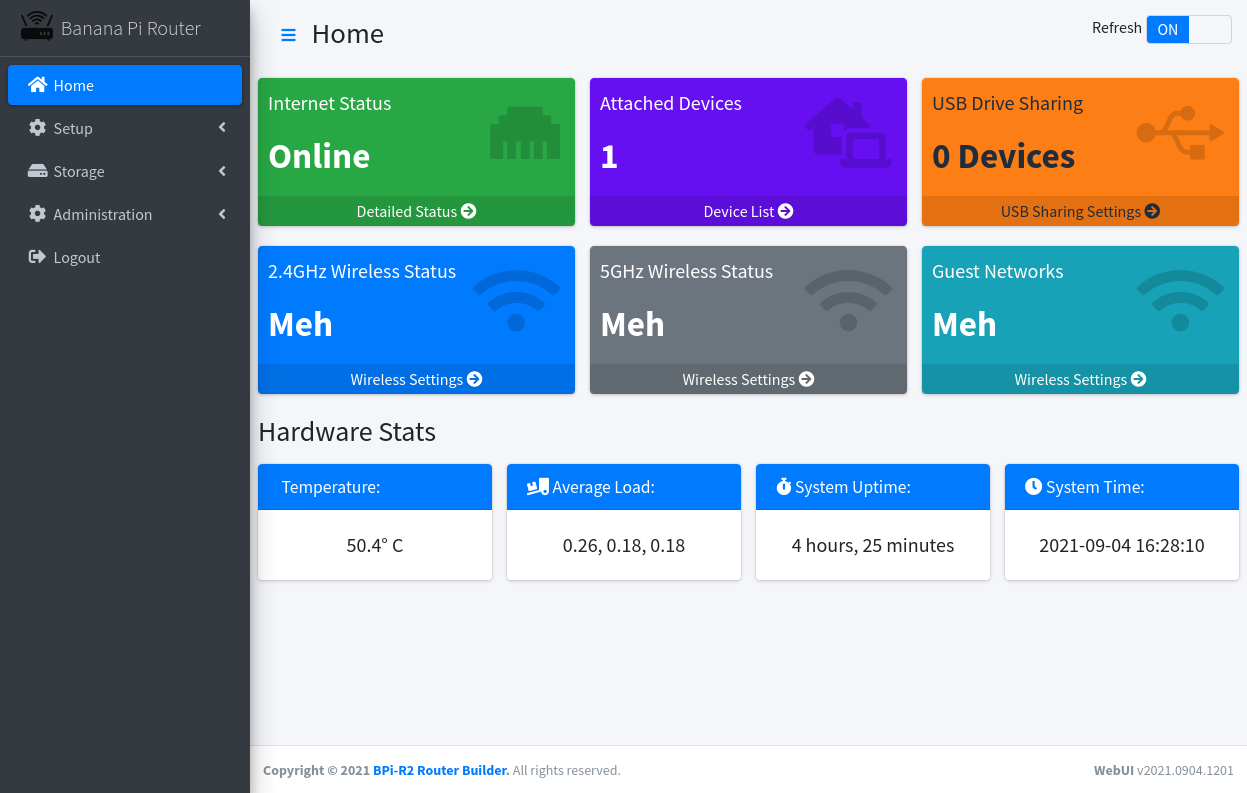
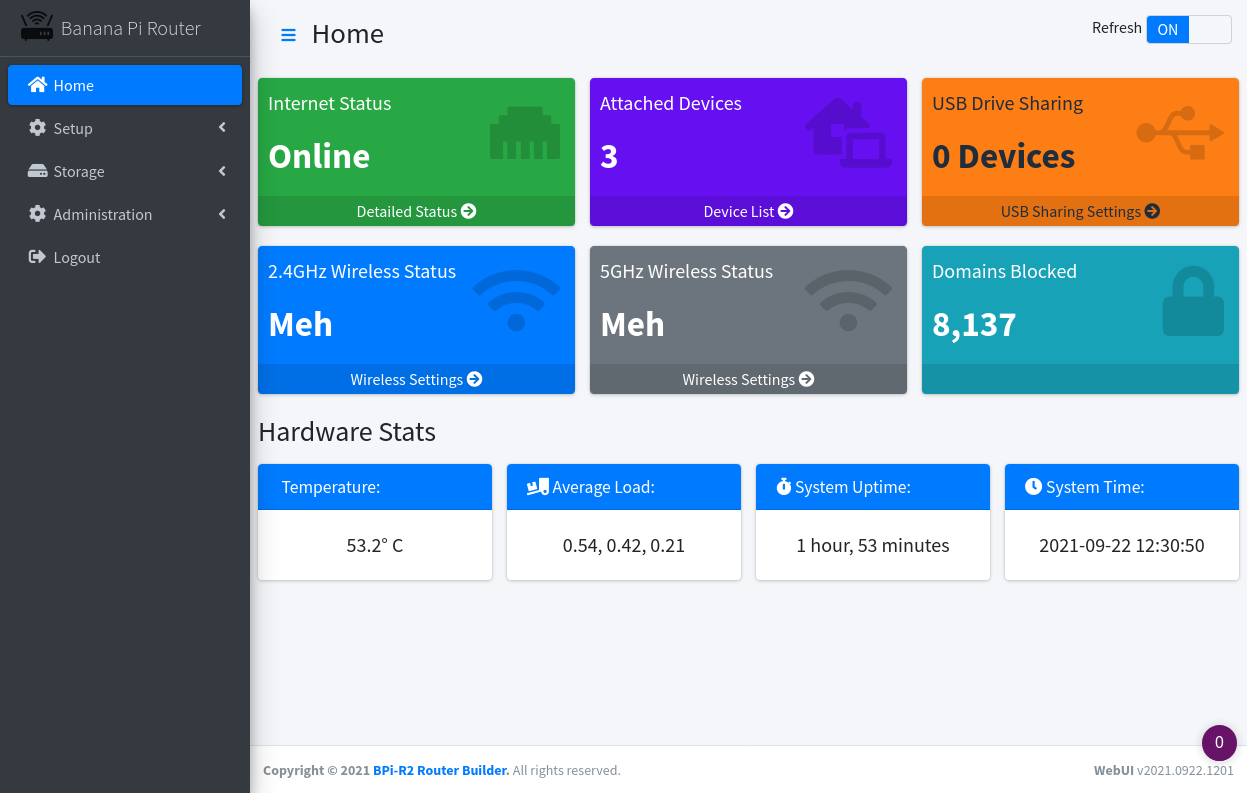
WebUI Home Page updated

diff --git a/router/js/site.js b/router/js/site.js
@@ -63,6 +63,9 @@ function Home_Data()
 		// Update server uptime and local time:
 		$("#system_uptime").html(results.system_uptime);
 		$("#server_time").html(results.server_time);
+	
+		// Update number of domains blocked:
+		$("#domains-blocked").html(results.domains_blocked);
 	});
 }
 

diff --git a/router/includes/home.php b/router/includes/home.php
@@ -105,21 +105,19 @@ echo '
 				</div>';
 
 #######################################################################################################
-# Display 5GHz wireless connectivity:
+# Display number of domains blocked by our adblocking script:
 #######################################################################################################
 echo '
 				<div class="col-md-4">
 					<div class="small-box bg-info">
 						<div class="inner">
-							<p class="text-lg">Guest Networks</p>
-							<h3>Meh</h3>
+							<p class="text-lg">Domains Blocked</p>
+							<h3 id="domains-blocked">&nbsp;</span></h3>
 						</div>
 						<div class="icon">
-							<i class="fas fa-wifi"></i>
-						</div>', $logged_in ? '
-						<a href="#" class="small-box-footer">
-							Wireless Settings <i class="fas fa-arrow-circle-right"></i>
-						</a>' : '', '
+							<i class="fas fa-lock"></i>
+						</div>
+						<a href="#" class="small-box-footer">&nbsp;</a>
 					</div>
 				</div>
 			</div>';

diff --git a/router/includes/ajax-home.php b/router/includes/ajax-home.php
@@ -28,6 +28,7 @@ $arr = array(
 	'lan_count' => 0,
 	'usb_devices' => array(),
 	'usb_count' => 0,
+	'domains_blocked' => number_format((int) @shell_exec("wc -l /etc/hosts.adblock | awk '{print $1}'")),
 );
 
 ##########################################################################################
